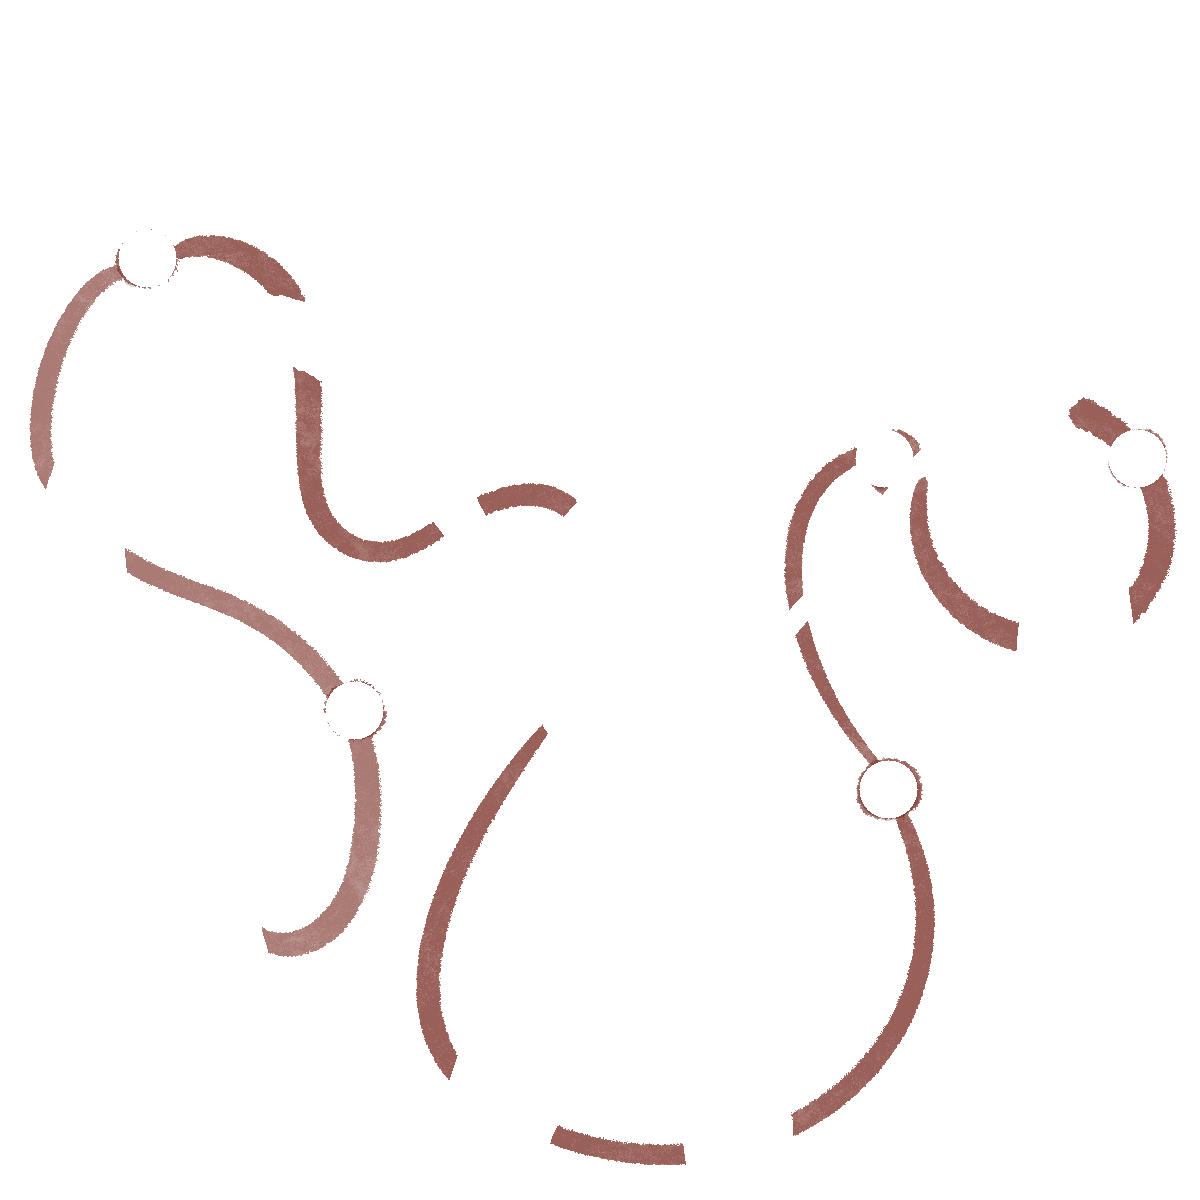
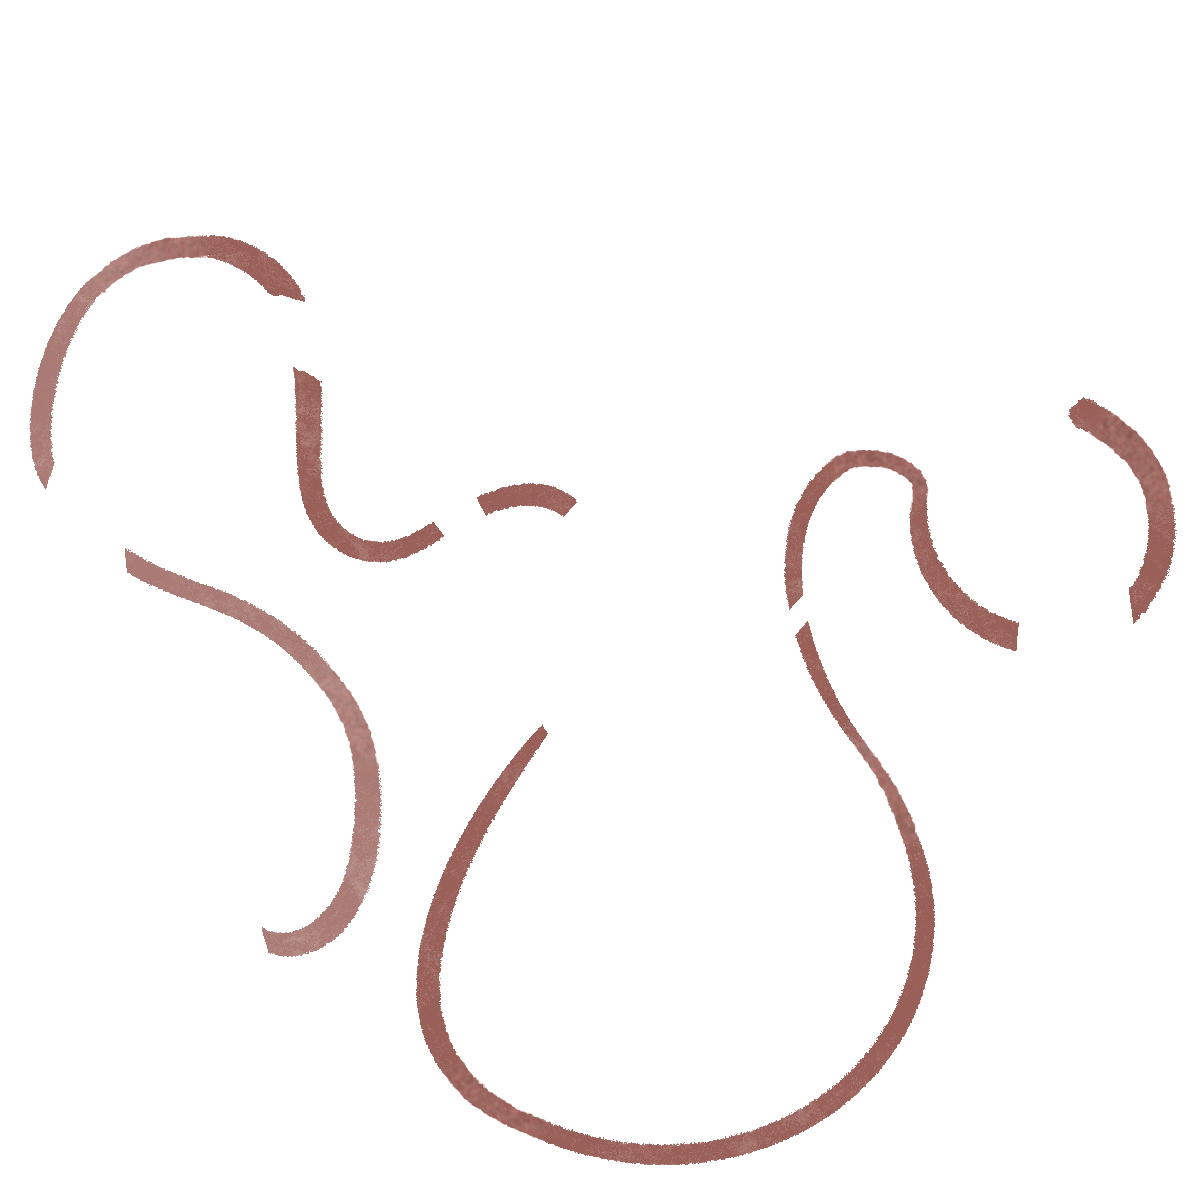
paint brush line change

diff --git a/components/HeroSection.tsx b/components/HeroSection.tsx
@@ -37,17 +37,15 @@ const DOT_CENTERS: [number, number][] = [
   [1137, 458],
 ];
 
-const DOT_RADIUS = 32.5; // perfectly round, a hair larger than the cut-out
+const DOT_RADIUS = 22; // dot size – was 32.5; lower = smaller dots
 
-/* per-dot radius – only the bottom dot (index 2) is slightly larger so it fully
- * covers the rough ring that sits in lines-front.png */
-const DOT_RADII = [32.5, 32.5, 35, 32.5, 32.5, 32.5];
+/* per-dot radius – all dots share the same size (the rough ring around the
+ * bottom dot is removed by FRONT_CLEAN_HOLES below, not by a bigger dot) */
+const DOT_RADII = DOT_CENTERS.map(() => DOT_RADIUS);
 
-/* circles erased from the FRONT line layer only, so no ring/stubs poke out
- * around the bottom dot (same clean look as the top-left dot) */
-const FRONT_CLEAN_HOLES: { cx: number; cy: number; r: number }[] = [
-  { cx: 496, cy: 1101, r: 35 },
-];
+/* circles erased from the FRONT line layer – not needed any more: the cleaned
+ * lines-back.png / lines-front.png already run straight into the dots */
+const FRONT_CLEAN_HOLES: { cx: number; cy: number; r: number }[] = [];
 
 /* time (draw clock) → fraction of path length. Invisible bridges behind the
  * arms are sped through so the line never appears to stall mid-stroke. */
@@ -227,10 +225,17 @@ export default function HeroSection() {
       }
     };
 
-    /* Can this direction move a line right now? (page must be at the top) */
+    /* The hero is "finished" only when every line is drawn AND has come to
+     * rest on the last dot. Until then the page must not scroll away. */
+    const isFinished = () =>
+      desired.current === STEP_COUNT &&
+      pos.current === STEP_COUNT &&
+      hold.current === 0 &&
+      performance.now() >= lockUntil.current;
+
+    /* Does the hero keep hold of the page for this direction? */
     const canStep = (dir: 1 | -1) =>
-      atTop() &&
-      (dir > 0 ? desired.current < STEP_COUNT : desired.current > 0);
+      atTop() && (dir > 0 ? !isFinished() : desired.current > 0);
 
     /* Send the line one dot forward / back. Returns true if the gesture was
      * used up by the hero (so the page must NOT scroll). */
@@ -238,8 +243,9 @@ export default function HeroSection() {
       if (!canStep(dir)) return false;
 
       const now = performance.now();
+      const room = dir > 0 ? desired.current < STEP_COUNT : desired.current > 0;
 
-      if (now >= lockUntil.current) {
+      if (now >= lockUntil.current && room) {
         const segment = dir > 0 ? desired.current : desired.current - 1;
         desired.current += dir;
         lockUntil.current =
@@ -247,13 +253,35 @@ export default function HeroSection() {
         wake();
       }
 
+      /* consumed even while a line is still travelling / resting, so a fast
+       * scroll can never carry the page past the last dot */
       return true;
     };
 
     /* mouse wheel / trackpad */
+    let lastWheel = 0;
+
     const onWheel = (e: WheelEvent) => {
       if (e.ctrlKey || Math.abs(e.deltaY) < 1) return;
-      if (step(e.deltaY > 0 ? 1 : -1)) e.preventDefault();
+
+      const now = performance.now();
+      const continuing = now - lastWheel < 140; // same flick / inertia tail
+      lastWheel = now;
+
+      const dir: 1 | -1 = e.deltaY > 0 ? 1 : -1;
+
+      /* the tail of the flick that finished the hero must not scroll the page:
+       * the page only moves on a fresh scroll after the last dot is connected */
+      if (
+        continuing &&
+        atTop() &&
+        (dir > 0 ? desired.current === STEP_COUNT : desired.current > 0)
+      ) {
+        e.preventDefault();
+        return;
+      }
+
+      if (step(dir)) e.preventDefault();
     };
 
     /* touch swipe */
